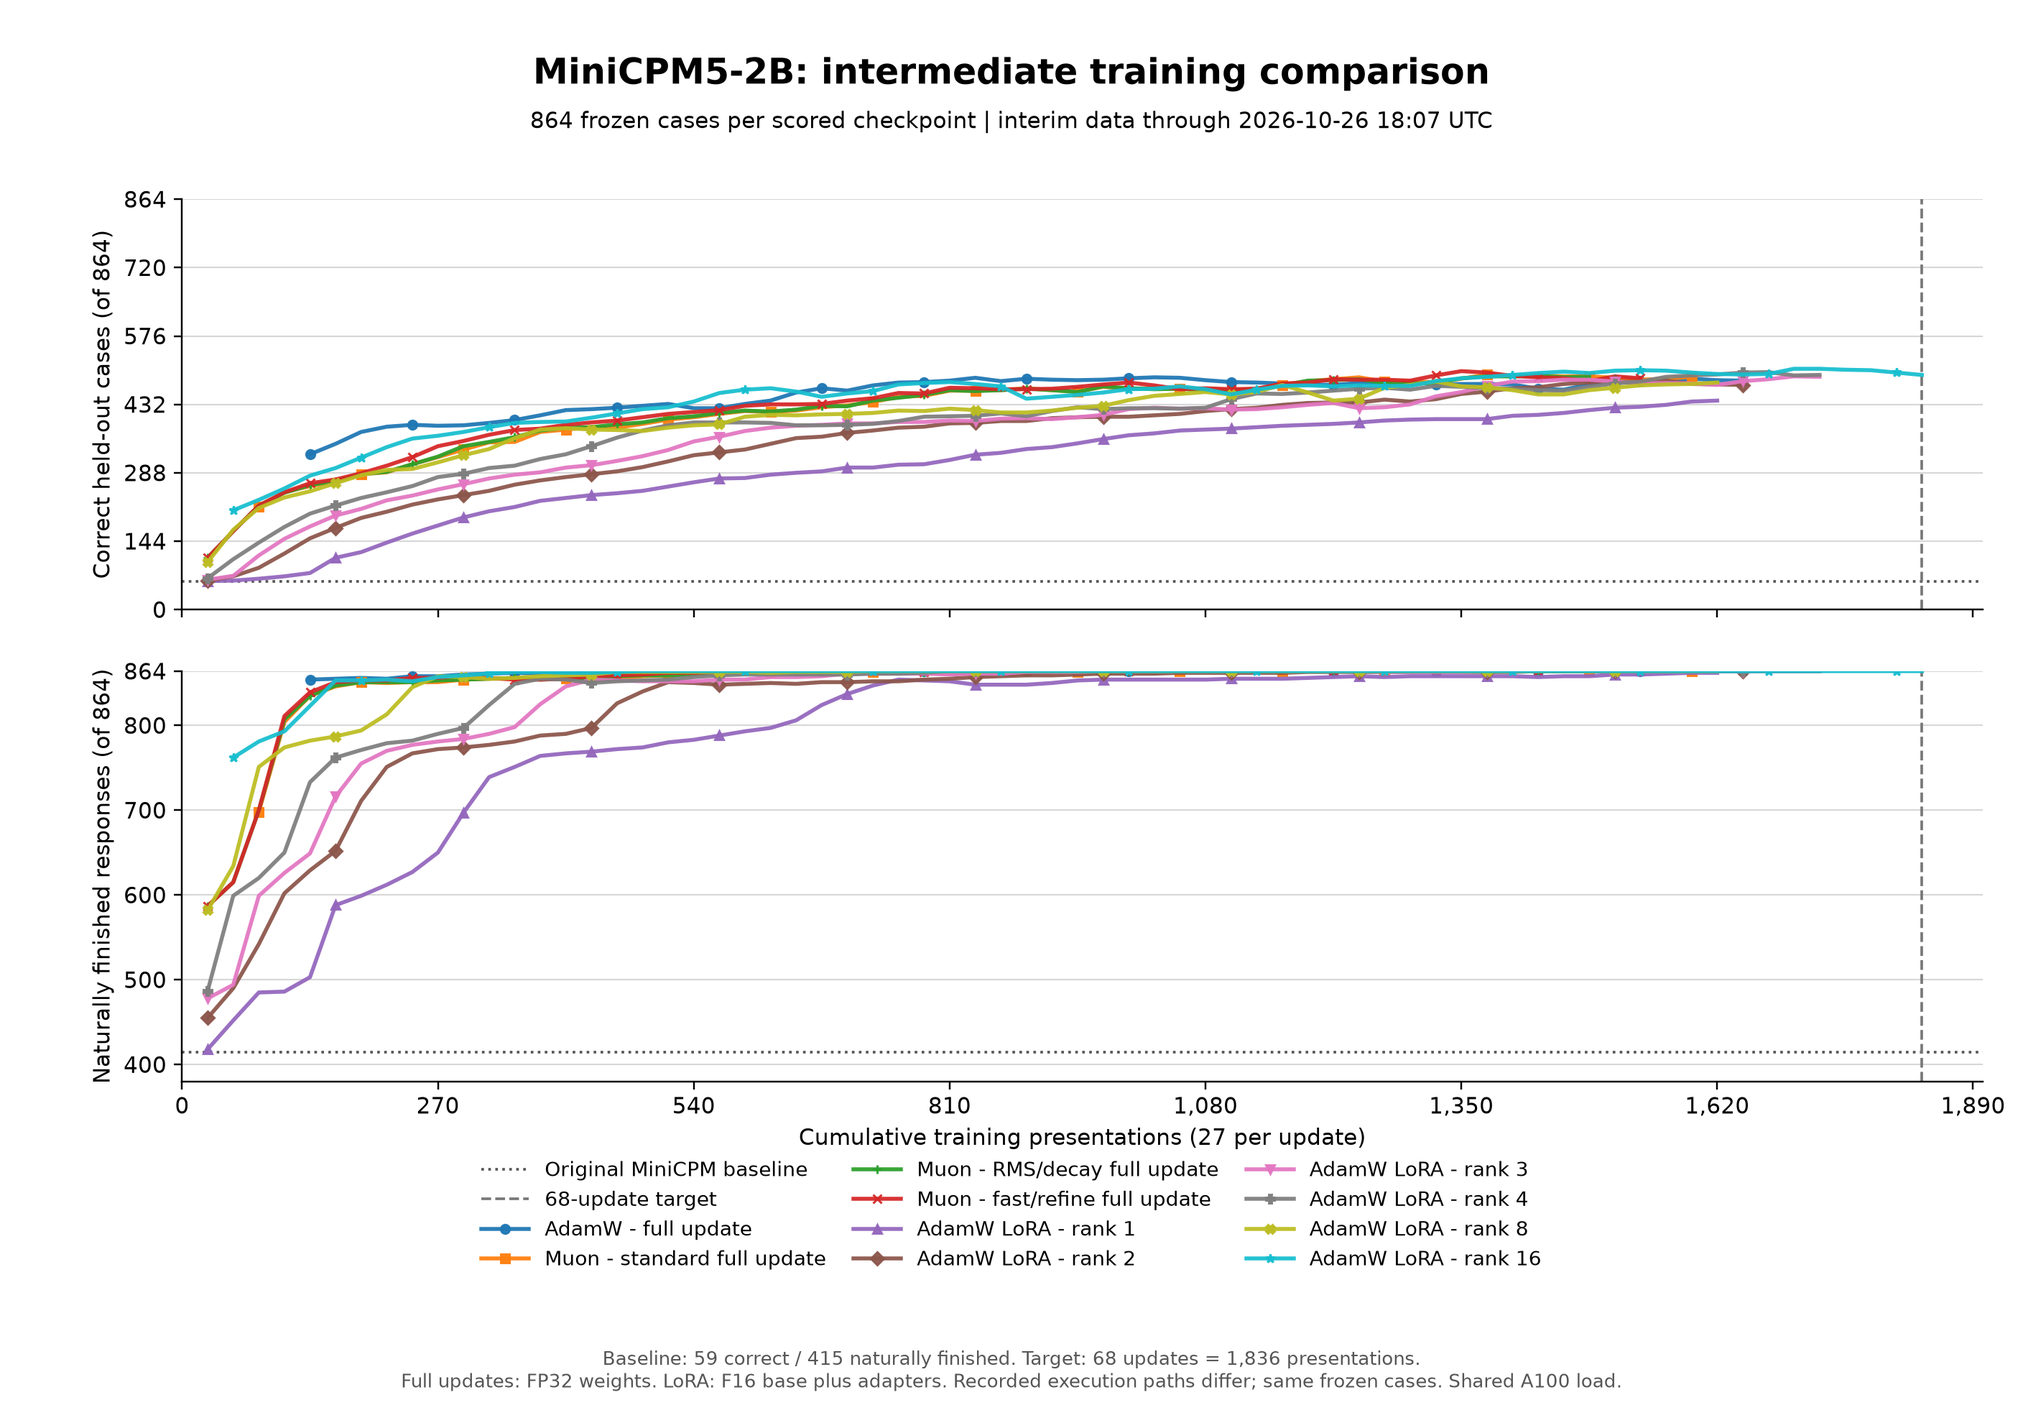
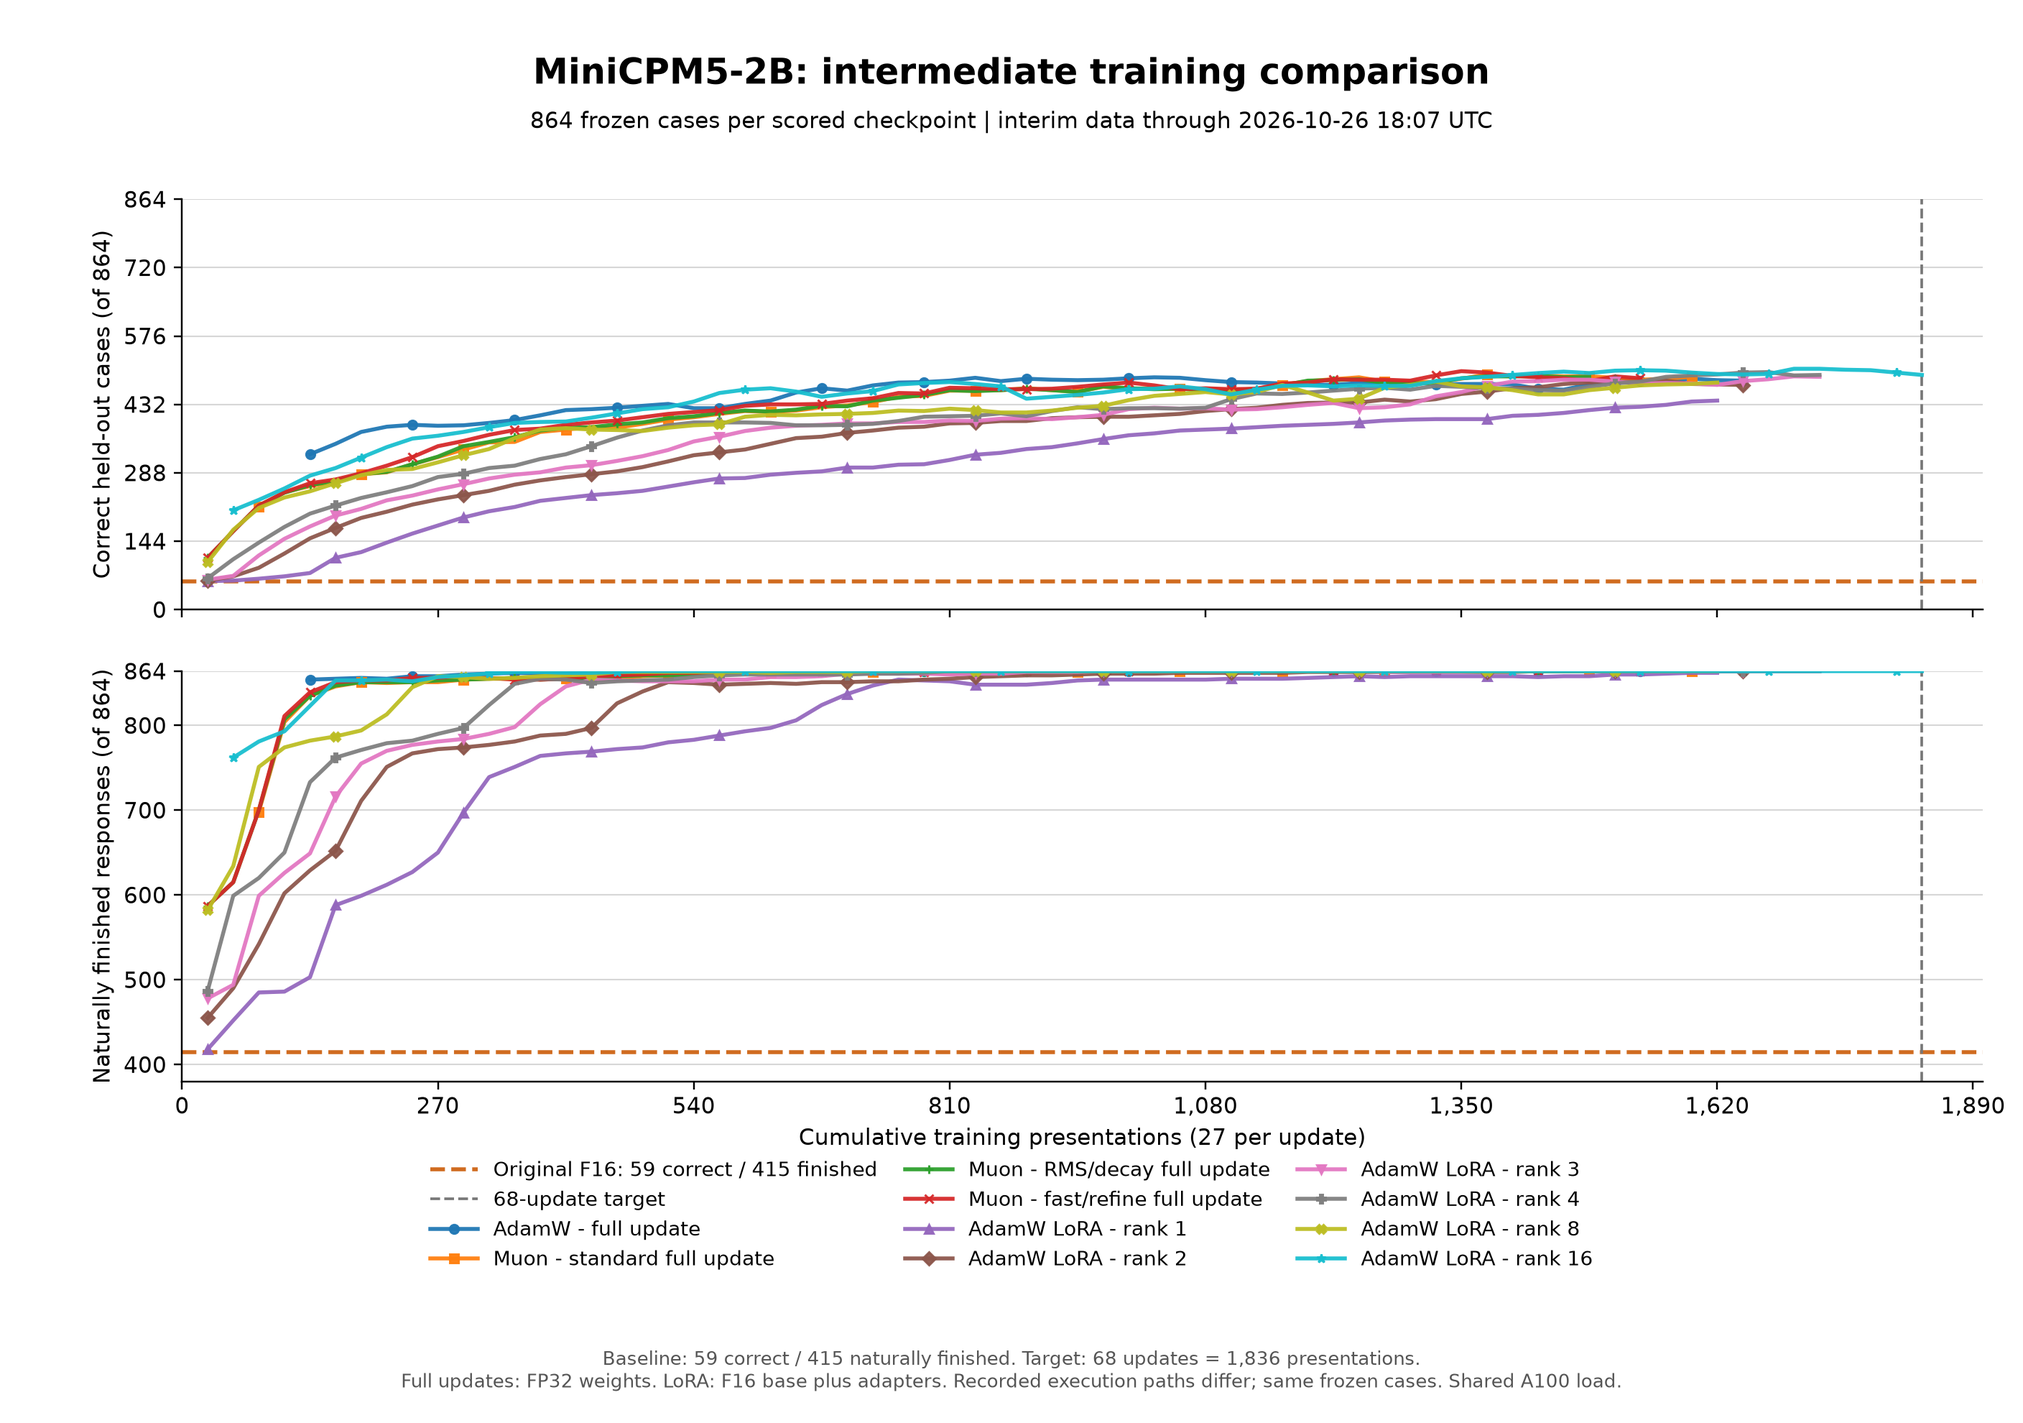
Show original model baselines beside trained precision and learning curves

Changed region(s): [[0.2188, 0.801, 0.7812, 0.8934]]

diff --git a/docs/results/minicpm-20261026/plot_rank16_precision.py b/docs/results/minicpm-20261026/plot_rank16_precision.py
@@ -2,18 +2,21 @@
 import json
 from pathlib import Path
 import matplotlib.pyplot as plt
+from plot_original_reference import add_original_curve
 
 root = Path(__file__).resolve().parent
 report = json.loads((root / 'rank16-final-precision.json').read_text(encoding='utf8'))
 rows = report['rows']
 fig, axes = plt.subplots(2, 1, figsize=(12, 8), sharex=True,
                          gridspec_kw={'height_ratios': [2, 1]})
-fig.subplots_adjust(top=.83, bottom=.15, left=.09, right=.97, hspace=.18)
+fig.subplots_adjust(top=.79, bottom=.17, left=.09, right=.97, hspace=.18)
 for axis, field, title, color in [(axes[0], 'correct', 'Correct answers / 864', '#2457a6'),
                                    (axes[1], 'finished', 'Naturally finished / 864', '#147a56')]:
     x = [i for i, r in enumerate(rows) if r['status'] == 'COMPLETE']
     y = [r[field] for r in rows if r['status'] == 'COMPLETE']
-    axis.plot(x, y, marker='o', color=color, lw=2.2)
+    axis.plot(x, y, marker='o', color=color, lw=2.2, label='Trained rank 16, update 68')
+    add_original_curve(axis, root, [r['format'] for r in rows],
+                       'passed' if field == 'correct' else 'finished', horizontal=True)
     for i, r in enumerate(rows):
         if r['status'] == 'COMPLETE':
             axis.annotate(str(r[field]), (i, r[field]), xytext=(0, 9),
@@ -27,15 +30,18 @@ for axis, field, title, color in [(axes[0], 'correct', 'Correct answers / 864', 
     axis.set_yticks([0, 216, 432, 648, 864])
     axis.grid(axis='y', alpha=.25)
     axis.spines[['top', 'right']].set_visible(False)
-axes[0].axhline(rows[0]['correct'], color='#888888', ls=':', lw=1)
+axes[0].axhline(rows[0]['correct'], color='#2457a6', ls=':', lw=.8, alpha=.6)
 axes[1].set_xticks(range(len(rows)), [r['format'] for r in rows])
 axes[1].set_xlabel('Requested GGUF format (K formats use mixed tensor types)')
 fig.suptitle('MiniCPM5-2B: preserving learned behavior after quantization',
              fontsize=17, fontweight='bold', y=.965)
 fig.text(.5, .895, 'AdamW LoRA rank 16, update 68 | one merged master | 864 fixed questions',
          ha='center', fontsize=11)
-fig.text(.5, .035, 'Completed receipts only; no projection or zero scores for pending formats.\n'
-         'Shared A100 loads; these are behavioral scores, not throughput measurements. No release acceptance.',
+handles, labels = axes[0].get_legend_handles_labels()
+fig.legend(handles, labels, loc='upper center', bbox_to_anchor=(.5,.87), ncol=1,
+           fontsize=9, frameon=False)
+fig.text(.5, .035, 'Original sweep: prior runtime, same frozen cases; original F32 not measured.\n'
+         'Dashed orange = original per quant; gray dots = original F16 level. Shared A100 loads; no release acceptance.',
          ha='center', fontsize=10, color='#555555')
 fig.savefig(root / 'rank16-final-precision.png', dpi=160, facecolor='white')
 plt.close(fig)

diff --git a/docs/results/minicpm-20261026/plot_trained_precision_panels.py b/docs/results/minicpm-20261026/plot_trained_precision_panels.py
@@ -2,6 +2,7 @@
 import csv
 from pathlib import Path
 import matplotlib.pyplot as plt
+from plot_original_reference import add_original_curve
 
 ROOT=Path(__file__).resolve().parent
 with (ROOT/'trained-precision-panels.csv').open(encoding='utf-8',newline='') as f:
@@ -18,8 +19,9 @@ for ax,(key,title) in zip(axes.flat,panels):
     data={r['format']:r for r in rows if r['panel']==key}
     correct=[int(data[f]['passed']) for f in formats]
     finished=[int(data[f]['finished']) for f in formats]
-    ax.plot(range(8),finished,'s--',color='#c3832a',label='Natural finishes',linewidth=1.6)
+    ax.plot(range(8),finished,'s--',color='#147a56',label='Trained natural finishes',linewidth=1.6)
     ax.plot(range(8),correct,'o-',color='#245b91',label='Correct answers',linewidth=2)
+    add_original_curve(ax, ROOT, formats, 'passed')
     for i,value in enumerate(correct):ax.annotate(str(value),(i,value),xytext=(0,10),textcoords='offset points',ha='center',fontsize=9)
     ax.set_title(title,loc='left',fontweight='bold',fontsize=11,pad=12)
     ax.set_xticks(range(8),labels);ax.set_ylim(-35,920);ax.set_yticks([0,216,432,648,864])
@@ -27,11 +29,11 @@ for ax,(key,title) in zip(axes.flat,panels):
     for spine in ('top','right'):ax.spines[spine].set_visible(False)
     ax.set_ylabel('Out of 864 frozen questions')
 handles,legend_labels=axes[0,0].get_legend_handles_labels()
-fig.legend(handles,legend_labels,loc='upper center',bbox_to_anchor=(.5,.89),ncol=2,fontsize=9,frameon=False)
+fig.legend(handles,legend_labels,loc='upper center',bbox_to_anchor=(.5,.89),ncol=3,fontsize=9,frameon=False)
 fig.suptitle('Trained MiniCPM5-2B: all four precision panels complete',fontsize=18,fontweight='bold',y=.97)
 fig.text(.5,.91,'28 quantized evaluations × 864 questions = 24,192 attempts; existing FP32 references retained',ha='center',fontsize=11)
 fig.text(.5,.065,'Compare precision within each panel. Updates, training exposures and runtimes differ; this is not an optimizer ranking.',ha='center',fontsize=10)
-fig.text(.5,.025,'Same 64-token response allowance. S³ scoring through PCC/COW. No new training, seed repeats or model uploads.',ha='center',fontsize=10,color='#555555')
+fig.text(.5,.025,'Original per-quant line uses prior runtime, same cases and 64-token limit; original F32 unmeasured. No new model calls.',ha='center',fontsize=9,color='#555555')
 fig.savefig(ROOT/'trained-precision-panels.png',dpi=180,facecolor='white')
 
 fig,axes=plt.subplots(2,2,figsize=(13,9),sharex=True)

diff --git a/docs/results/minicpm-20261026/plot_trained_quants.py b/docs/results/minicpm-20261026/plot_trained_quants.py
@@ -2,13 +2,18 @@
 import csv
 from pathlib import Path
 import matplotlib.pyplot as plt
+from plot_original_reference import original_scores
 
 ROOT=Path(__file__).resolve().parent
 with (ROOT/'trained-quantization-progress.csv').open(encoding='utf-8',newline='') as f: data={r['format']:r for r in csv.DictReader(f)}
 order=['F32','F16','Q8_0','Q5_K_M','Q4_K_M','Q3_K_M','Q2_K','Q1_0']
+original=original_scores(ROOT)
 labels=['FP32 reference','FP16','Q8_0','Q5_K_M','Q4_K_M','Q3_K_M','Q2_K','Q1_0']
 fig,axes=plt.subplots(1,2,figsize=(13,7.2));fig.subplots_adjust(left=.16,right=.97,top=.78,bottom=.20,wspace=.22)
 for ax,metric,title in [(axes[0],'passed','Correct answers'),(axes[1],'finished','Naturally finished responses')]:
+    indices=[i for i,f in enumerate(order) if f in original]
+    ax.plot([int(original[order[i]][metric]) for i in indices],indices,'d--',
+            color='#d06b1f',lw=1.8,label='Original per quant (prior runtime)',zorder=5)
     for i,fmt in enumerate(order):
         row=data[fmt]
         if row['status']=='COMPLETE':
@@ -23,11 +28,12 @@ for ax,metric,title in [(axes[0],'passed','Correct answers'),(axes[1],'finished'
     ax.grid(axis='x',color='#dddddd');ax.set_axisbelow(True);ax.tick_params(axis='y',length=0)
     for spine in ('top','right','left'):ax.spines[spine].set_visible(False)
     ax.set_xlabel('Out of 864 frozen questions')
+    ax.legend(loc='lower right',fontsize=8,frameon=False)
 count=sum(data[f]['status']=='COMPLETE' for f in order[1:])
 fig.suptitle('Trained MiniCPM5-2B: seven-format quantization comparison',fontsize=18,fontweight='bold',y=.96)
 fig.text(.5,.875,f'AdamW full update 43 | {count}/7 formats complete | same local PCC/COW runtime and 64-token limit',ha='center',fontsize=11)
 fig.text(.5,.09,'This intermediate checkpoint is separate from the ten A100 training curves. No additional training was performed.',ha='center',fontsize=10)
-note=('Individual answers can change even when totals match. All seven original-model formats are reported separately.' if count==7
+note=('Orange line: historical original-model scores on the same cases; prior runtime, original F32 not measured.' if count==7
       else 'Blank rows are unfinished measurements, not zero model scores. Individual answers can change even when totals match.')
 fig.text(.5,.035,note,ha='center',fontsize=9,color='#555555')
 fig.savefig(ROOT/'trained-quantization-progress.png',dpi=200,facecolor='white')

diff --git a/docs/results/minicpm-20261026/plot_original_reference.py b/docs/results/minicpm-20261026/plot_original_reference.py
@@ -1,0 +1,35 @@
+"""Shared presentation references from the published original-model receipts.
+
+The original sweep used a different runtime. Never fill in an unmeasured F32
+point or present these historical scores as a matched-runtime causal estimate.
+"""
+import csv
+import json
+from pathlib import Path
+
+
+def original_scores(root):
+    root = Path(root)
+    with (root/'original-quantization.csv').open(newline='', encoding='utf8') as f:
+        rows = list(csv.DictReader(f))
+    proof = json.loads((root/'original-quantization-validation.json').read_text(encoding='utf8'))
+    assert proof['status'] == 'PASS' and proof['unique_complete_cases_per_format'] == 864
+    assert len(rows) == len({r['format'] for r in rows}) == 7
+    assert {r['evaluation_id'] for r in rows} == {proof['common_evaluation_id']}
+    assert {r['runtime_id'] for r in rows} == {proof['common_runtime_id']}
+    assert all(int(r['cases']) == 864 for r in rows)
+    return {r['format']: r for r in rows}
+
+
+def add_original_curve(axis, root, formats, metric, *, horizontal=False):
+    rows = original_scores(root)
+    # Missing original F32 remains absent; the curve starts at measured F16.
+    x = [i for i, fmt in enumerate(formats) if fmt in rows]
+    y = [int(rows[formats[i]][metric]) for i in x]
+    axis.plot(x, y, 'd--', color='#d06b1f', lw=1.8, markersize=5,
+              label='Original model at each quant (prior runtime)')
+    if horizontal:
+        value = int(rows['F16'][metric])
+        axis.axhline(value, color='#777777', ls=':', lw=1.2,
+                     label=f'Original F16 reference: {value}/864')
+    return rows

diff --git a/docs/results/minicpm-20261026/plot_rank_comparison.py b/docs/results/minicpm-20261026/plot_rank_comparison.py
@@ -5,6 +5,7 @@ from pathlib import Path
 
 import matplotlib.pyplot as plt
 import matplotlib.ticker as mticker
+from plot_original_reference import original_scores
 
 root=Path(__file__).resolve().parent
 with (root/'intermediate-training-curves.csv').open(newline='',encoding='utf8') as f:
@@ -17,9 +18,10 @@ fig,axes=plt.subplots(2,1,figsize=(13,9),sharex=True)
 fig.subplots_adjust(left=.09,right=.98,top=.86,bottom=.22,hspace=.16)
 colors=['#111111','#7c3aed','#e66101','#d95f9d','#1b9e77','#0088bb','#b8860b','#355cbd']
 markers=['o','s','^','D','v','P','X','*']
-for axis,metric,title,baseline in [(axes[0],'correct_out_of_864','Correct answers / 864',59),
-        (axes[1],'natural_finishes_out_of_864','Naturally finished / 864',415)]:
-    axis.axhline(baseline,color='#777777',ls=':',lw=1.2,label=f'Original: {baseline}/864')
+original=original_scores(root)['F16']
+for axis,metric,title,baseline in [(axes[0],'correct_out_of_864','Correct answers / 864',int(original['passed'])),
+        (axes[1],'natural_finishes_out_of_864','Naturally finished / 864',int(original['finished']))]:
+    axis.axhline(baseline,color='#d06b1f',ls='--',lw=1.8,label=f'Original F16: {baseline}/864')
     axis.axvline(68,color='#888888',ls='--',lw=1)
     for i,(arm,label) in enumerate(labels.items()):
         points=groups[arm];last=points[-1]

diff --git a/docs/results/minicpm-20261026/plot_curves.py b/docs/results/minicpm-20261026/plot_curves.py
@@ -6,6 +6,7 @@ from pathlib import Path
 
 import matplotlib.pyplot as plt
 import matplotlib.ticker as mticker
+from plot_original_reference import original_scores
 
 
 ROOT = Path(__file__).resolve().parent
@@ -43,17 +44,18 @@ markers = ["o", "s", "+", "x", "^", "D", "v", "P", "X", "*"]
 fig, axes = plt.subplots(2, 1, figsize=(12.8, 9.0), sharex=True)
 fig.subplots_adjust(left=0.09, right=0.98, top=0.86, bottom=0.24, hspace=0.15)
 
+original = original_scores(ROOT)['F16']
 panels = [
-    (axes[0], "correct_out_of_864", "Correct held-out cases (of 864)", 59),
-    (axes[1], "natural_finishes_out_of_864", "Naturally finished responses (of 864)", 415),
+    (axes[0], "correct_out_of_864", "Correct held-out cases (of 864)", int(original['passed'])),
+    (axes[1], "natural_finishes_out_of_864", "Naturally finished responses (of 864)", int(original['finished'])),
 ]
 for axis, metric, ylabel, baseline in panels:
     axis.axhline(
         baseline,
-        color="#555555",
-        linestyle=":",
-        linewidth=1.2,
-        label="Original MiniCPM baseline",
+        color="#d06b1f",
+        linestyle="--",
+        linewidth=1.8,
+        label="Original F16: 59 correct / 415 finished",
     )
     axis.axvline(
         1836,

diff --git a/docs/RANK16-PRECISION-PROGRESS.md b/docs/RANK16-PRECISION-PROGRESS.md
@@ -7,6 +7,28 @@ All eight formats, including the F32 reference, are complete (26 October 2026).
 
 ![Rank-16 precision sweep](results/minicpm-20261026/rank16-final-precision.png)
 
+The **orange dashed line** shows the original, untrained model's measured score
+at each quant size. The **gray dotted line** marks its F16 reference: 59 correct
+and 415 naturally finished out of 864. Original F32 was not measured in that
+sweep and is left absent. The original sweep used a different runtime; this is
+a historical comparison on the same frozen cases, not a matched-runtime estimate
+of the effect of training alone. See the [original receipts and scores](MINICPM-QUANTIZATION-PROGRESS.md).
+The [overlay validation](results/minicpm-20261026/original-overlay-validation.json)
+records both runtime identities, source hashes and the absent original F32 point.
+
+| Format | Original correct / 864 | Trained rank-16 correct / 864 | Difference in total |
+| --- | ---: | ---: | ---: |
+| F32 | not measured | 494 | not comparable |
+| F16 | 59 | 494 | +435 |
+| Q8_0 | 43 | 491 | +448 |
+| Q5_K_M | 58 | 482 | +424 |
+| Q4_K_M | 34 | 492 | +458 |
+| Q3_K_M | 50 | 401 | +351 |
+| Q2_K | 4 | 36 | +32 |
+| Q1_0 | 0 | 0 | 0 |
+
+The table below retains the within-trained-checkpoint, paired comparison to F32.
+
 | Format | GGUF GiB | Correct / 864 | Natural finishes / 864 | Newly correct vs F32 | Previously correct lost |
 | --- | ---: | ---: | ---: | ---: | ---: |
 | F32 | 9.380 | 494 | 864 | 0 | 0 |

diff --git a/docs/MINICPM-TRAINED-QUANTIZATION.md b/docs/MINICPM-TRAINED-QUANTIZATION.md
@@ -9,8 +9,15 @@ training or seed repetitions were performed for these precision sweeps.
 
 ![Four completed trained precision panels](results/minicpm-20261026/trained-precision-panels.png)
 
+Each panel now includes an **orange dashed original-model correctness curve**:
+F16 59, Q8 43, Q5 58, Q4 34, Q3 50, Q2 4 and Q1 0. Original F32 remains
+unmeasured. These are historical scores on the same 864 frozen cases through
+a different runtime; the overlay is not a matched-runtime causal comparison.
+The [original-model report](MINICPM-QUANTIZATION-PROGRESS.md) retains its receipts.
+
 | Intermediate checkpoint | FP32 | FP16 | Q8 | Q5 | Q4 | Q3 | Q2 | Q1 |
 | --- | ---: | ---: | ---: | ---: | ---: | ---: | ---: | ---: |
+| Original model, prior runtime | not measured | 59 | 43 | 58 | 34 | 50 | 4 | 0 |
 | AdamW full, update 43, llm-60 | 476 | 476 | 476 | 460 | 465 | 345 | 38 | 0 |
 | Standard Muon, update 42, llm-49 | 465 | 463 | 463 | 443 | 439 | 269 | 18 | 0 |
 | RMS/decay Muon, update 41, llm-60 | 461 | 461 | 462 | 451 | 440 | 271 | 23 | 0 |

diff --git a/docs/RESULTS-TOUR.md b/docs/RESULTS-TOUR.md
@@ -46,6 +46,12 @@ Q5 **482**, Q4 **492**, Q3 **401**, Q2 **36**, and Q1 **0**. All eight formats a
 The observed steep drop starts below Q4, with a nonmonotonic dip at Q5.
 These are the same 864 questions through the same standalone evaluation path.
 
+The orange dashed line adds the original model at each quant: F16 59, Q8 43,
+Q5 58, Q4 34, Q3 50, Q2 4 and Q1 0 correct out of 864. Those original
+measurements used a prior runtime; original F32 is unmeasured. The gray dotted
+reference is the original F16 score. This makes the before/after totals visible
+without claiming that runtime differences have been isolated.
+
 Q4's approximately **1.454 GiB** file has nearly the F32 total score, but it
 gained 20 correct answers and lost 22 others. Similar totals do not mean
 unchanged behavior. This is a measured development result, not a release decision.

diff --git a/docs/MINICPM-UPDATE-CURVES-PROGRESS.md b/docs/MINICPM-UPDATE-CURVES-PROGRESS.md
@@ -6,6 +6,11 @@
 
 ![All ten training curves](results/minicpm-20261026/intermediate-training-curves.png)
 
+The orange dashed reference marks the original F16 model: **59/864 correct**
+and **415/864 naturally finished**, from the published original-model receipts.
+It is a historical reference; recorded execution paths differ from some trained
+arms. Quantization charts additionally show the original score at each quant size.
+
 The chart contains 602 completed scored checkpoints, 8 more than the preceding
 snapshot. It includes full AdamW, standard Muon, RMS/decay Muon, fast/refine
 Muon, and all six AdamW LoRA ranks. Full updates use FP32 weights; LoRA uses
